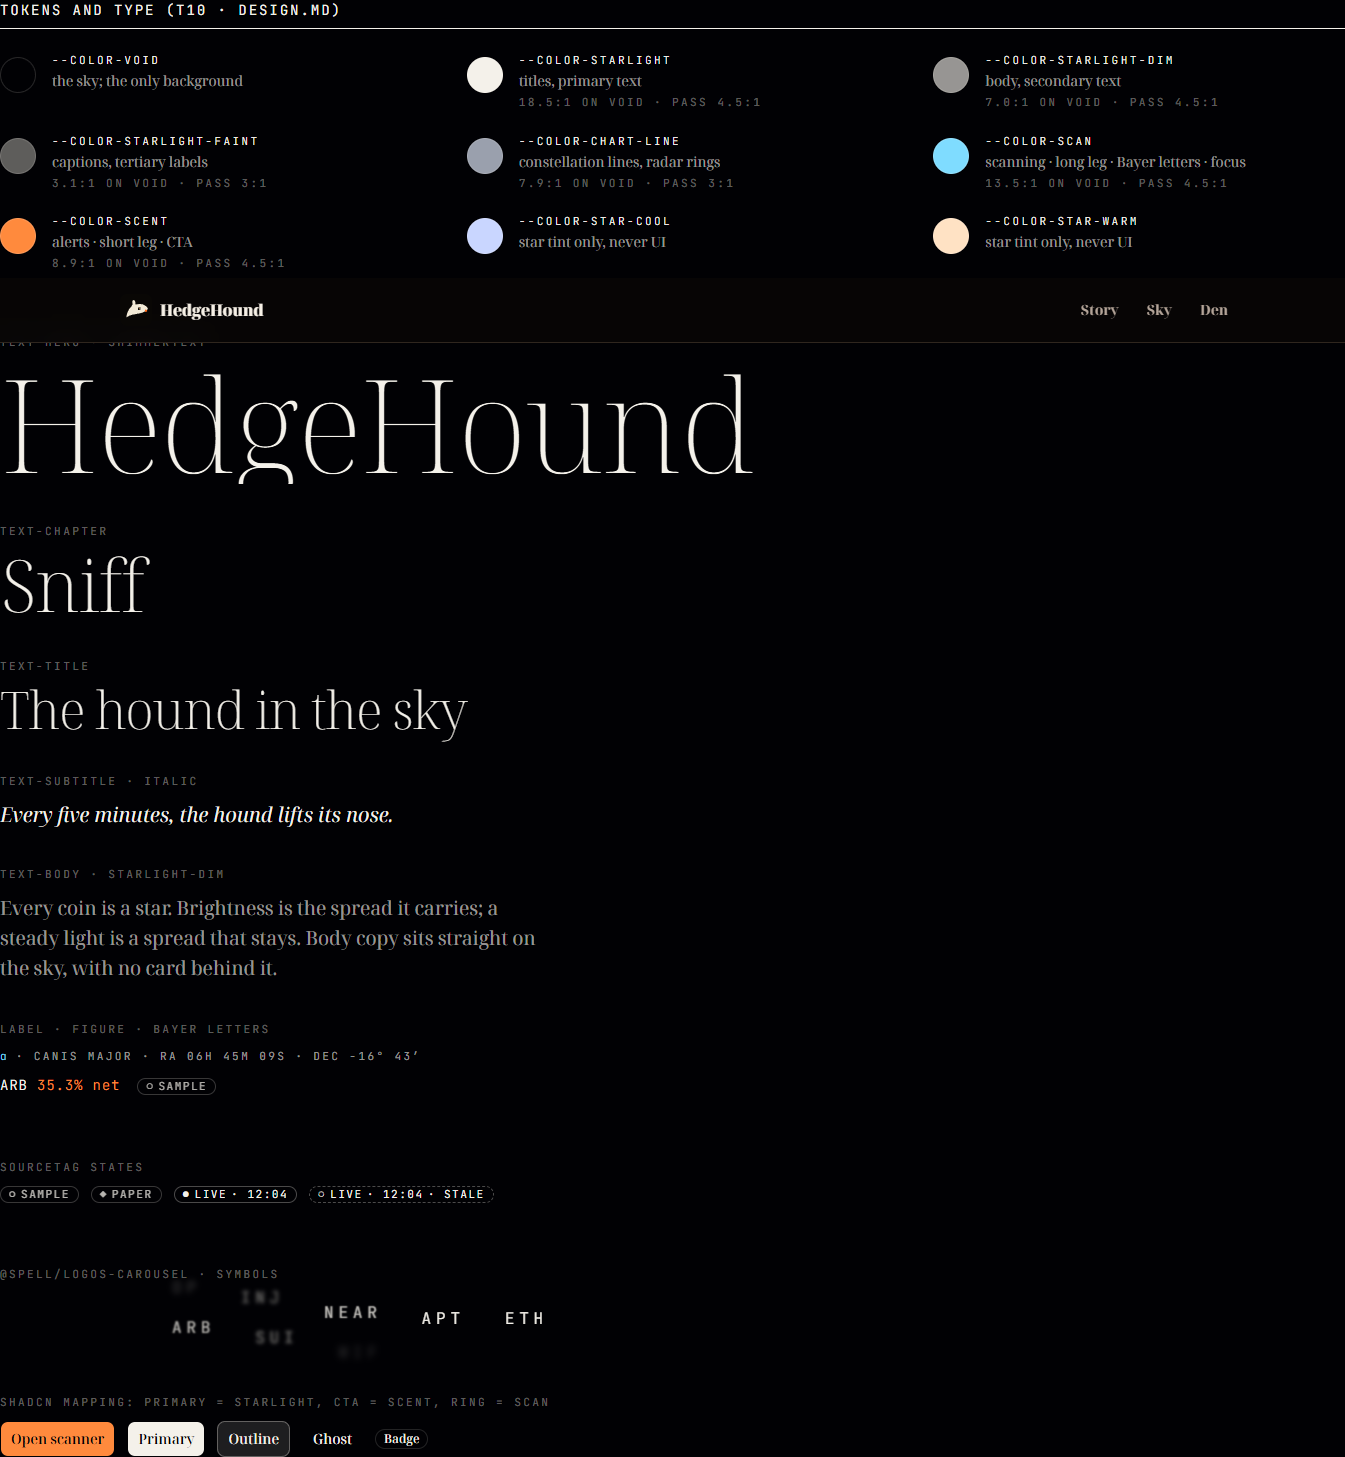
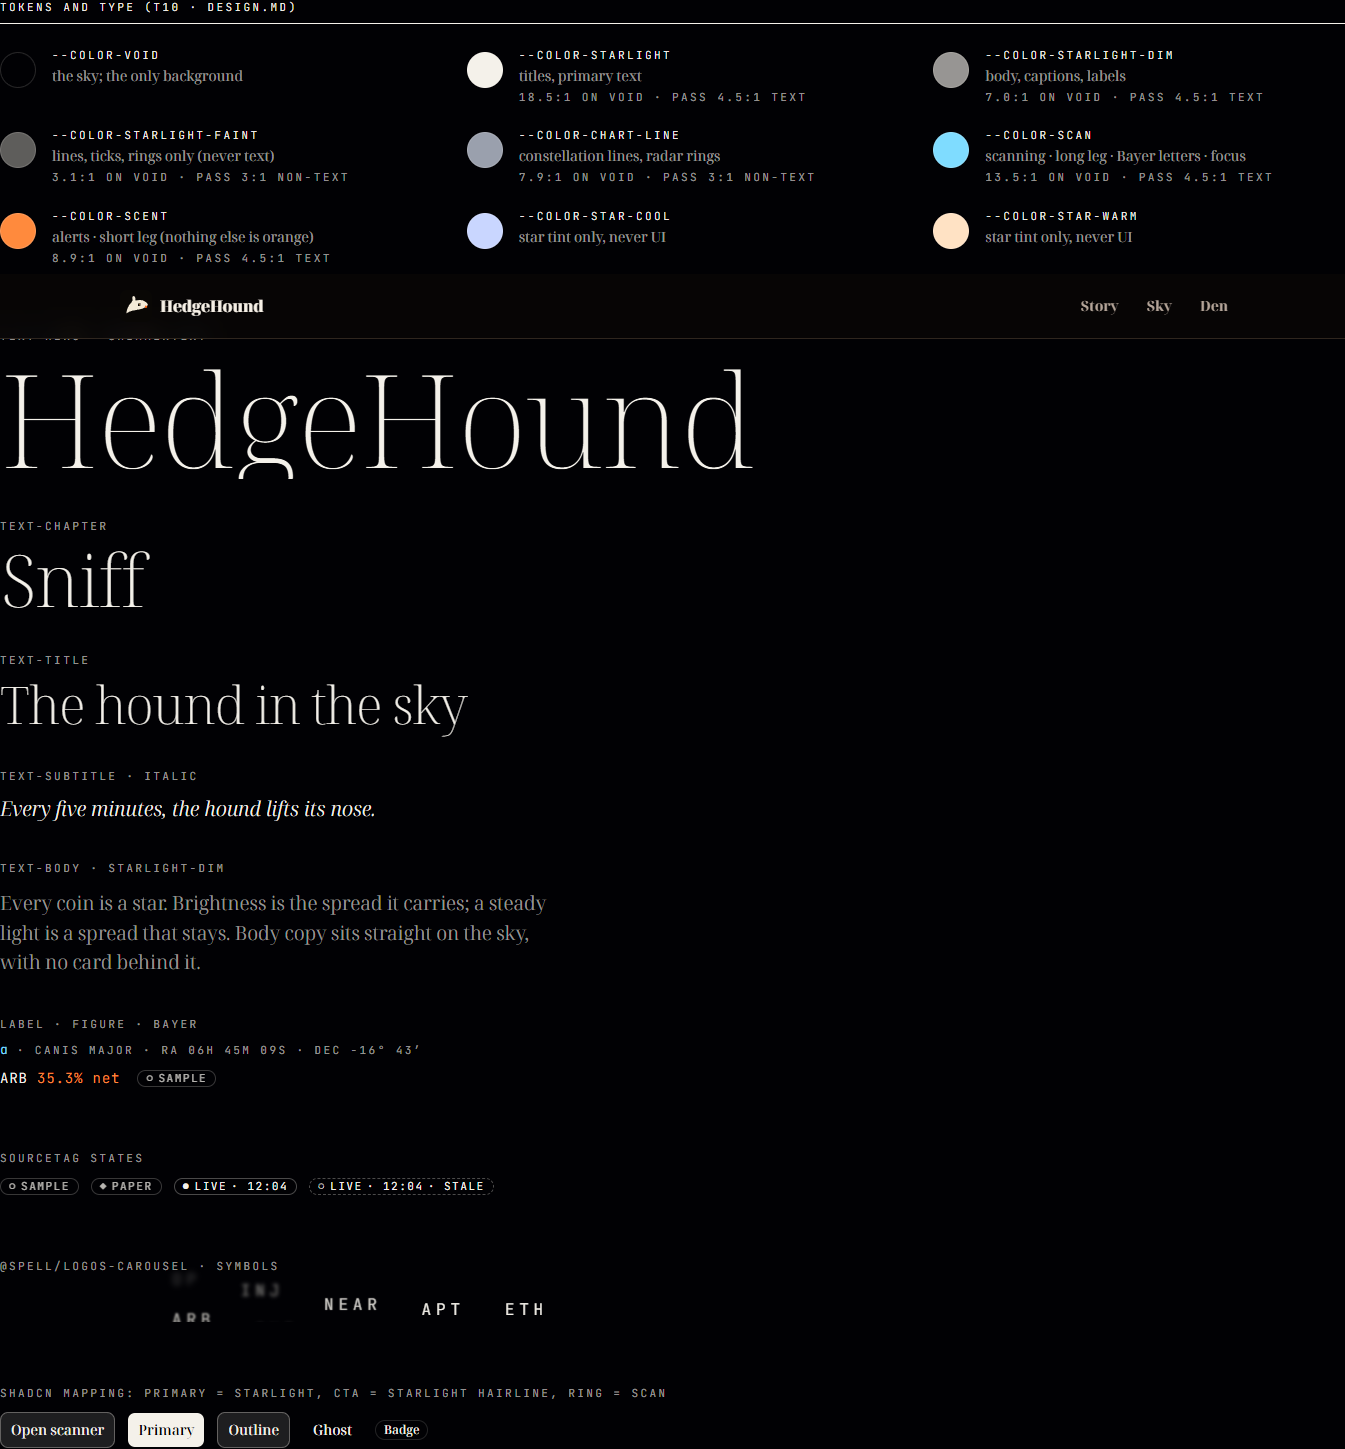
v0.3 T10: critique fixes (faint for lines only, starlight hairline CTA, type roles)
- starlight-faint reserved for lines/ticks/rings; captions use starlight-dim
- orange cta variant removed; CTA = starlight hairline (Quiet Action Rule)
- body/subtitle weight 330, bayer role (13px/400), figure line-height,
  SourceTag on the label role with tracking-tag
- /_kitchen checker uses 4.5:1 for text, 3:1 for non-text
- DESIGN.md records both owner decisions; notes/T10.md; TICKETS status

diff --git a/src/routes/[_]kitchen.tsx b/src/routes/[_]kitchen.tsx
@@ -34,7 +34,7 @@ import { ShimmerText } from "@/components/shimmer-text";
 import { palette } from "@/lib/palette";
 
 // Throwaway specimen route (T04 / T03 / T03b). Deleted in T52.
-// Placeholder content only: no APR, yield or performance figures.
+// Placeholder content only: the one figure shown is tagged SAMPLE.
 export const Route = createFileRoute("/_kitchen")({
   component: KitchenPage,
 });
@@ -43,8 +43,8 @@ export const Route = createFileRoute("/_kitchen")({
 function KitchenPage() {
   return (
     <main className="min-h-dvh bg-void px-4 pt-24 pb-10 text-starlight md:px-10">
-      <h1 className="mb-2 text-2xl font-bold">/_kitchen</h1>
-      <p className="mb-10 max-w-prose text-v1-muted">
+      <h1 className="mb-2 text-title font-light-display">/_kitchen</h1>
+      <p className="mb-10 max-w-prose text-starlight-dim">
         Specimens for T10 (DESIGN.md tokens and type), T03 (shadcn and magicui) and T03b (text effects). Throwaway route, deleted in T52.
       </p>
 
@@ -293,22 +293,23 @@ function KitchenPage() {
 
 // ---------- T10: DESIGN.md tokens and type ----------
 
-type Swatch = { token: string; color: string; role: string; on: string; minimum: number };
+type Swatch = { token: string; color: string; role: string; on: string; minimum: number; kind: "text" | "non-text" | "none" };
 
 const DIM = `rgb(244 241 234 / ${palette.starlightDimAlpha})`;
 const FAINT = `rgb(244 241 234 / ${palette.starlightFaintAlpha})`;
 
-// Each swatch is checked against the surface it is meant for (critique fix: no context-free ratios).
+// Each swatch is checked against what it is used for: text needs 4.5:1 (WCAG 1.4.3, small text),
+// lines and other non-text marks need 3:1 (1.4.11). Faint is for lines only (T10 critique decision).
 const SWATCHES: Swatch[] = [
-  { token: "--color-void", color: palette.void, role: "the sky; the only background", on: "—", minimum: 0 },
-  { token: "--color-starlight", color: palette.starlight, role: "titles, primary text", on: "void", minimum: 4.5 },
-  { token: "--color-starlight-dim", color: DIM, role: "body, secondary text", on: "void", minimum: 4.5 },
-  { token: "--color-starlight-faint", color: FAINT, role: "captions, tertiary labels", on: "void", minimum: 3 },
-  { token: "--color-chart-line", color: palette.chartLine, role: "constellation lines, radar rings", on: "void", minimum: 3 },
-  { token: "--color-scan", color: palette.scan, role: "scanning · long leg · Bayer letters · focus", on: "void", minimum: 4.5 },
-  { token: "--color-scent", color: palette.scent, role: "alerts · short leg · CTA", on: "void", minimum: 4.5 },
-  { token: "--color-star-cool", color: palette.starCool, role: "star tint only, never UI", on: "—", minimum: 0 },
-  { token: "--color-star-warm", color: palette.starWarm, role: "star tint only, never UI", on: "—", minimum: 0 },
+  { token: "--color-void", color: palette.void, role: "the sky; the only background", on: "", minimum: 0, kind: "none" },
+  { token: "--color-starlight", color: palette.starlight, role: "titles, primary text", on: "void", minimum: 4.5, kind: "text" },
+  { token: "--color-starlight-dim", color: DIM, role: "body, captions, labels", on: "void", minimum: 4.5, kind: "text" },
+  { token: "--color-starlight-faint", color: FAINT, role: "lines, ticks, rings only (never text)", on: "void", minimum: 3, kind: "non-text" },
+  { token: "--color-chart-line", color: palette.chartLine, role: "constellation lines, radar rings", on: "void", minimum: 3, kind: "non-text" },
+  { token: "--color-scan", color: palette.scan, role: "scanning · long leg · Bayer letters · focus", on: "void", minimum: 4.5, kind: "text" },
+  { token: "--color-scent", color: palette.scent, role: "alerts · short leg (nothing else is orange)", on: "void", minimum: 4.5, kind: "text" },
+  { token: "--color-star-cool", color: palette.starCool, role: "star tint only, never UI", on: "", minimum: 0, kind: "none" },
+  { token: "--color-star-warm", color: palette.starWarm, role: "star tint only, never UI", on: "", minimum: 0, kind: "none" },
 ];
 
 function rgbOf(color: string): [number, number, number, number] {
@@ -354,8 +355,8 @@ function TokensSection() {
                 <p className="label text-starlight">{s.token}</p>
                 <p className="mt-1 text-sm text-starlight-dim">{s.role}</p>
                 {ratio !== null && (
-                  <p className={`label mt-1 ${pass ? "text-starlight-faint" : "text-scent"}`}>
-                    {ratio.toFixed(1)}:1 on {s.on} · {pass ? "pass" : "fail"} {s.minimum}:1
+                  <p className={`label mt-1 ${pass ? "text-starlight-dim" : "text-scent"}`}>
+                    {ratio.toFixed(1)}:1 on {s.on} · {pass ? "pass" : "fail"} {s.minimum}:1 {s.kind}
                   </p>
                 )}
               </div>
@@ -366,34 +367,34 @@ function TokensSection() {
 
       <div className="mt-16 flex flex-col gap-10">
         <div>
-          <p className="label mb-3 text-starlight-faint">text-hero · ShimmerText</p>
+          <p className="label mb-3 text-starlight-dim">text-hero · ShimmerText</p>
           <ShimmerText className="[--shimmer-contrast:rgb(255_255_255)]" duration={2.4} delay={0.8}>
             <span className="text-hero font-light-display text-starlight/85">HedgeHound</span>
           </ShimmerText>
         </div>
         <div>
-          <p className="label mb-3 text-starlight-faint">text-chapter</p>
+          <p className="label mb-3 text-starlight-dim">text-chapter</p>
           <p className="text-chapter font-light-display">Sniff</p>
         </div>
         <div>
-          <p className="label mb-3 text-starlight-faint">text-title</p>
+          <p className="label mb-3 text-starlight-dim">text-title</p>
           <p className="text-title font-light-display">The hound in the sky</p>
         </div>
         <div>
-          <p className="label mb-3 text-starlight-faint">text-subtitle · italic</p>
+          <p className="label mb-3 text-starlight-dim">text-subtitle · italic</p>
           <p className="text-subtitle italic">Every five minutes, the hound lifts its nose.</p>
         </div>
         <div className="max-w-[62ch]">
-          <p className="label mb-3 text-starlight-faint">text-body · starlight-dim</p>
+          <p className="label mb-3 text-starlight-dim">text-body · starlight-dim</p>
           <p className="text-body text-starlight-dim">
             Every coin is a star. Brightness is the spread it carries; a steady light is a spread that stays. Body
             copy sits straight on the sky, with no card behind it.
           </p>
         </div>
         <div>
-          <p className="label mb-3 text-starlight-faint">label · figure · Bayer letters</p>
+          <p className="label mb-3 text-starlight-dim">label · figure · bayer</p>
           <p className="label text-starlight-dim">
-            <span className="text-scan normal-case tracking-normal">α</span> · Canis Major · RA 06h 45m 09s · DEC −16° 43′
+            <span className="bayer">α</span> · Canis Major · RA 06h 45m 09s · DEC −16° 43′
           </p>
           <p className="figure mt-3">
             ARB <span className="text-scent">35.3% net</span> <SourceTag kind="sample" className="ml-2 align-middle" />
@@ -402,7 +403,7 @@ function TokensSection() {
       </div>
 
       <div className="mt-16 flex flex-wrap items-center gap-3">
-        <p className="label w-full text-starlight-faint">SourceTag states</p>
+        <p className="label w-full text-starlight-dim">SourceTag states</p>
         <SourceTag kind="sample" />
         <SourceTag kind="paper" />
         <SourceTag kind="live" ts={Date.UTC(2026, 9, 14, 5, 4)} />
@@ -410,7 +411,7 @@ function TokensSection() {
       </div>
 
       <div className="mt-16 overflow-hidden">
-        <p className="label mb-6 text-starlight-faint">@spell/logos-carousel · symbols</p>
+        <p className="label mb-6 text-starlight-dim">@spell/logos-carousel · symbols</p>
         <LogosCarousel count={5} stagger={0.12} interval={2200} duration={700} className="gap-5 sm:gap-10">
           {CAROUSEL.map((sym) => (
             <span key={sym} className="label text-base tracking-[0.3em] text-starlight">
@@ -421,8 +422,8 @@ function TokensSection() {
       </div>
 
       <div className="mt-16 flex flex-wrap items-center gap-3">
-        <p className="label w-full text-starlight-faint">shadcn mapping: primary = starlight, cta = scent, ring = scan</p>
-        <Button variant="cta">Open scanner</Button>
+        <p className="label w-full text-starlight-dim">shadcn mapping: primary = starlight, CTA = starlight hairline, ring = scan</p>
+        <Button variant="outline">Open scanner</Button>
         <Button>Primary</Button>
         <Button variant="outline">Outline</Button>
         <Button variant="ghost">Ghost</Button>
@@ -435,7 +436,7 @@ function TokensSection() {
 function Section({ title, children }: { title: string; children: React.ReactNode }) {
   return (
     <section className="mb-16">
-      <h2 className="mb-6 border-b pb-2 font-mono text-sm tracking-[0.14em] uppercase">{title}</h2>
+      <h2 className="label mb-6 border-b pb-2 text-starlight">{title}</h2>
       {children}
     </section>
   );
@@ -444,7 +445,7 @@ function Section({ title, children }: { title: string; children: React.ReactNode
 function Row({ label, children }: { label: string; children: React.ReactNode }) {
   return (
     <div>
-      <h3 className="mb-3 font-mono text-xs text-faint">{label}</h3>
+      <h3 className="label mb-3 text-starlight-dim">{label}</h3>
       <div className="flex flex-wrap items-center gap-4">{children}</div>
     </div>
   );

diff --git a/src/styles.css b/src/styles.css
@@ -45,14 +45,18 @@
   --text-title--font-weight: 180;
   --text-subtitle: clamp(1.2rem, 1.4vw, 1.45rem);
   --text-subtitle--line-height: 1.3;
+  --text-subtitle--font-weight: 330;
   --text-body: clamp(1.05rem, 0.35vw + 0.95rem, 1.2rem);
   --text-body--line-height: 1.55;
+  --text-body--font-weight: 330;
   --text-label: 0.6875rem; /* 11px: the minimum for HUD and labels (T10 critique) */
   --text-label--line-height: 1.3;
   --text-label--letter-spacing: 0.22em;
   --text-figure: 0.875rem;
   --text-figure--line-height: 1.2;
   --text-figure--letter-spacing: 0.06em;
+  --text-bayer: 0.8125rem; /* 13px Greek letters: legible as α, not a */
+  --tracking-tag: 0.14em;
 
   /* v1 palette, kept as-is until the legacy pages are rebuilt (T10 decision 1b). Remove in T51.
      v1 `muted` is renamed `v1-muted`: `muted` belongs to shadcn's surface token. */
@@ -99,8 +103,20 @@
   font-family: var(--font-mono);
   font-size: var(--text-figure);
   font-weight: 300;
+  line-height: var(--text-figure--line-height);
   letter-spacing: var(--text-figure--letter-spacing);
   font-variant-numeric: tabular-nums;
+}
+
+/* Greek Bayer letters (α β γ …): mono, 13px, regular weight, never uppercased. */
+@utility bayer {
+  font-family: var(--font-mono);
+  font-size: var(--text-bayer);
+  font-weight: 400;
+  line-height: 1;
+  letter-spacing: normal;
+  text-transform: none;
+  color: var(--color-scan);
 }
 
 @layer base {

diff --git a/src/components/edition/source-tag.tsx b/src/components/edition/source-tag.tsx
@@ -8,8 +8,8 @@ import { cn } from "@/lib/cn"
  * - paper:  the local paper book (browser storage)
  * - sample: static layout sample, synthesized, or the scanner-offline fallback
  *
- * Early slice of T13. Colours are neutral until T10 maps tokens; the scent/scan
- * accents are reserved for meaning (PLAN §2.2), so they are not used here.
+ * Early slice of T13. Colour is inherited, so the tag works on the sky and on legacy cream
+ * sections; the scent/scan accents are reserved for meaning (DESIGN.md), so they are not used here.
  */
 export type SourceKind = "live" | "paper" | "sample"
 
@@ -58,7 +58,7 @@ export function SourceTag({ kind, ts, stale = false, className }: Props) {
         // T10 critique: 11px minimum, LIVE at full strength, SAMPLE/PAPER a step quieter. Colour is
         // inherited so the tag works on the sky and on the legacy pages' cream sections alike.
         "inline-flex items-center gap-1 rounded-full border border-current/30 px-2 py-0.5",
-        "font-mono text-[11px] leading-none tracking-[0.14em] uppercase tabular-nums whitespace-nowrap",
+        "label font-normal leading-none tracking-tag whitespace-nowrap",
         kind === "live" ? "opacity-100" : "opacity-75",
         isStale && "border-dashed",
         className,

diff --git a/src/components/ui/button.tsx b/src/components/ui/button.tsx
@@ -18,8 +18,6 @@ const buttonVariants = cva(
         destructive:
           "bg-destructive/10 text-destructive hover:bg-destructive/20 focus-visible:border-destructive/40 focus-visible:ring-destructive/20 dark:bg-destructive/20 dark:hover:bg-destructive/30 dark:focus-visible:ring-destructive/40",
         link: "text-primary underline-offset-4 hover:underline",
-        // The one orange button: the primary call to action (DESIGN.md: orange = alerts / CTA only).
-        cta: "bg-scent text-void hover:bg-scent/85",
       },
       size: {
         default:

diff --git a/docs/redesign/notes/T10.md b/docs/redesign/notes/T10.md
@@ -1,0 +1,44 @@
+# T10: DESIGN.md tokens and type (v0.3)
+
+Branch `T10-almagest` (from main). Supersedes the old `T10` branch (parchment/glass), whose plumbing was reused.
+
+## What changed
+- **Tokens** (`src/styles.css` `@theme`, mirrored in `src/lib/palette.ts`, guarded by `src/lib/palette.test.ts`): void, starlight (+ dim 0.62, faint 0.38), chart line, scan, scent, star tints.
+- **Legacy pages keep their v1 palette** (owner decision 1b). The v1 `muted` token was renamed `v1-muted`, because `muted` is shadcn's surface token; 58 usages were updated, and `palette.muted` became `palette.v1Muted`.
+- **Two fonts only** (decision 2): Noto Serif Display Variable + JetBrains Mono Variable. Syne, Fraunces, Bricolage, Pinyon and Inter were uninstalled. `--font-sans` and `--font-serif` both point to the display face, so the legacy pages switched too.
+- **Type scale:** hero, chapter, title, subtitle (330), body (330), label (11px minimum), figure, bayer (13px/400). Utilities: `label`, `figure`, `bayer`, `font-light-display`. A `--tracking-tag` token was added.
+- **shadcn mapping:**
+  - primary = starlight, destructive = scent, ring = scan
+  - border at 14%, input at 40% (3.4:1)
+  - popovers and cards are void with a hairline border
+  - dark variants always on
+- **Buttons:** the main CTA is a starlight hairline (outline). There is no orange button (critique decision).
+- **SourceTag:**
+  - built on the `label` role, weight 400, `tracking-tag`
+  - inherits colour; LIVE at full strength, SAMPLE/PAPER at 0.75
+  - `ts != null` check
+- **magicui:** colour defaults now use tokens. SVG `stopColor`/`stroke` moved to style, because presentation attributes don't resolve `var()`.
+- **@spell/shimmer-text and @spell/logos-carousel** ported from D1, including the `<style jsx>` fix.
+- **`/_kitchen` specimen:**
+  - swatches checked against their real use: text 4.5:1, non-text 3:1
+  - the type scale, SourceTag states, ShimmerText, the carousel and the button mapping
+  - the page's own chrome moved off legacy tokens
+
+## DESIGN.md updates (owner decisions from the T10 critique)
+- `starlight-faint` is for lines, ticks and rings only, never text. Captions use `starlight-dim`.
+- The Quiet Action Rule: the CTA is a starlight hairline, and nothing else is orange.
+- Added a Buttons section and a `bayer-letter` type token.
+
+## Verification
+- Typecheck: clean.
+- Lint: only the pre-existing `no-empty` error in `client.server.ts`.
+- Tests: `npm test` 293/293 (+4 palette lockstep).
+- Console: no errors on `/_kitchen`, `/`, `/universe`, `/den`; only the known `THREE.Clock` warning.
+- Layout: no horizontal scroll at 390.
+- Screenshots: `docs/redesign/notes/T10-shots/`.
+- Impeccable critique (dual-agent): 19/28, up from 18. Both P1s were resolved by owner decisions, and the type-role P2 was fixed.
+
+## Open (not in T10)
+- **Critique P2:** mono and tabular digits for buttons, badges, tables and figures. The owner didn't select it this round, so the `/den` dollar columns still don't align. Revisit in T13 or T34.
+- **Critique P3:** the legacy `/` swash initial reads "I t does not chase price" in the new font. Fix when the page is rebuilt (T14), or earlier if the owner asks.
+- **Legacy cleanup (T51):** `text-faint` (4.2:1) in the older `/_kitchen` sections, and the hex literals in `.night` / `.paper`.

diff --git a/DESIGN.md b/DESIGN.md
@@ -12,6 +12,12 @@ colors:
   star-cool: "#c9d6ff"
   star-warm: "#ffe2c4"
 typography:
+  bayer-letter:
+    fontFamily: "JetBrains Mono Variable, ui-monospace, monospace"
+    fontSize: "13px"
+    fontWeight: 400
+    lineHeight: 1
+    letterSpacing: "normal"
   display-hero:
     fontFamily: "Noto Serif Display Variable, serif"
     fontSize: "clamp(3.2rem, 9vw, 8.5rem)"
@@ -119,7 +125,7 @@ The palette is the night: one black, one starlight, and two signal colours with 
 
 ### Primary
 - **Void** `#010104`: the page and the sky. There is no other background.
-- **Starlight** `#f4f1ea`: all primary text and the brightest stars. Use it at 0.62 (`starlight-dim`) for body and secondary copy, and at 0.38 (`starlight-faint`) for captions and tertiary labels.
+- **Starlight** `#f4f1ea`: all primary text and the brightest stars. Use it at 0.62 (`starlight-dim`, 7:1) for body, captions and labels. `starlight-faint` (0.38, 3.1:1) is **for lines, ticks and rings only, never text** (T10 critique: small text needs 4.5:1).
 
 ### Signals (meaning only, never decoration)
 - **Scan cyan** `#7fdcff`: scanning and the long leg. Bayer letters (α β γ …), the radar sweep, the active chapter index and focus rings.
@@ -130,6 +136,7 @@ The palette is the night: one black, one starlight, and two signal colours with 
 - **Star cool / star warm** `#c9d6ff` / `#ffe2c4`: tints for star colour temperature only. Never used for UI.
 
 ### Named rules
+- **The Quiet Action Rule:** the main call to action ("Open scanner") is a **starlight hairline** button, not a filled or orange one. Orange stays purely "the hound smells something" (owner decision, T10 critique).
 - **The Two Signals Rule:** cyan means scanning or long, orange means alert or short. There is no green, no red, and no third accent.
 - **The Honest Number Rule:** every figure carries a SourceTag (LIVE · time / PAPER / SAMPLE). One tag may cover a group of figures from the same source.
 
@@ -177,6 +184,9 @@ No drop shadows and no glow. Post-processing is limited to the scroll-locked cra
 Hairlines and points. Lines are 1px chart lines; stars are round points with a tight core and a falloff that reaches zero before the sprite edge (no discs). Rounded corners only on the small SourceTag pill and the prototype options box. The glass hound is the only rounded solid: deep bevel, soft edges.
 
 ## Components
+
+### Buttons
+Quiet by default. The primary action is a starlight hairline (outline at 40% starlight, starlight text, cyan focus ring); a filled starlight button exists for rare emphasis. There is no orange button.
 
 ### SourceTag
 A mono pill reading `○ SAMPLE`, `◆ PAPER` or `● LIVE · 12:04`, with a dashed `◌ … · STALE` variant. It is required next to every figure or group of figures.

diff --git a/docs/redesign/TICKETS.md b/docs/redesign/TICKETS.md
@@ -229,7 +229,8 @@ Common inputs: `content/edition.ts` entry (copy), waypoint id (already exists), 
 | T04 | H | done | font faces verified on /_kitchen; lint issues from untracked Impeccable scripts (notes/T04.md) |
 | S1–S5 | S | done | S2/S3/S4 outcomes superseded by D1 (no nebula, no glass cards, custom glass hound) |
 | D1 | O | done | Almagest direction prototype: `/_almagest` on branch `D1-almagest`; written up as `DESIGN.md` |
-| T10–T15 | O | todo | rescoped to DESIGN.md (Almagest, D1) |
+| T10 | O | done | DESIGN.md tokens + type; two fonts; legacy palette kept (1b); critique 19/28; notes/T10.md |
+| T11–T15 | O | todo | rescoped to DESIGN.md (Almagest, D1) |
 | T20–T27 | S | todo | |
 | T30–T35 | S/H | todo | |
 | T40b | S | done | cost in query+key (0.30); copy fixes (ARB card from sample row, den H1, hub line, CSV name); 30 s/2 min/5 min offline backoff; useScan().stale (no LIVE tag exists yet to receive it); 289 tests; branch T40b (notes/T40b.md) |
